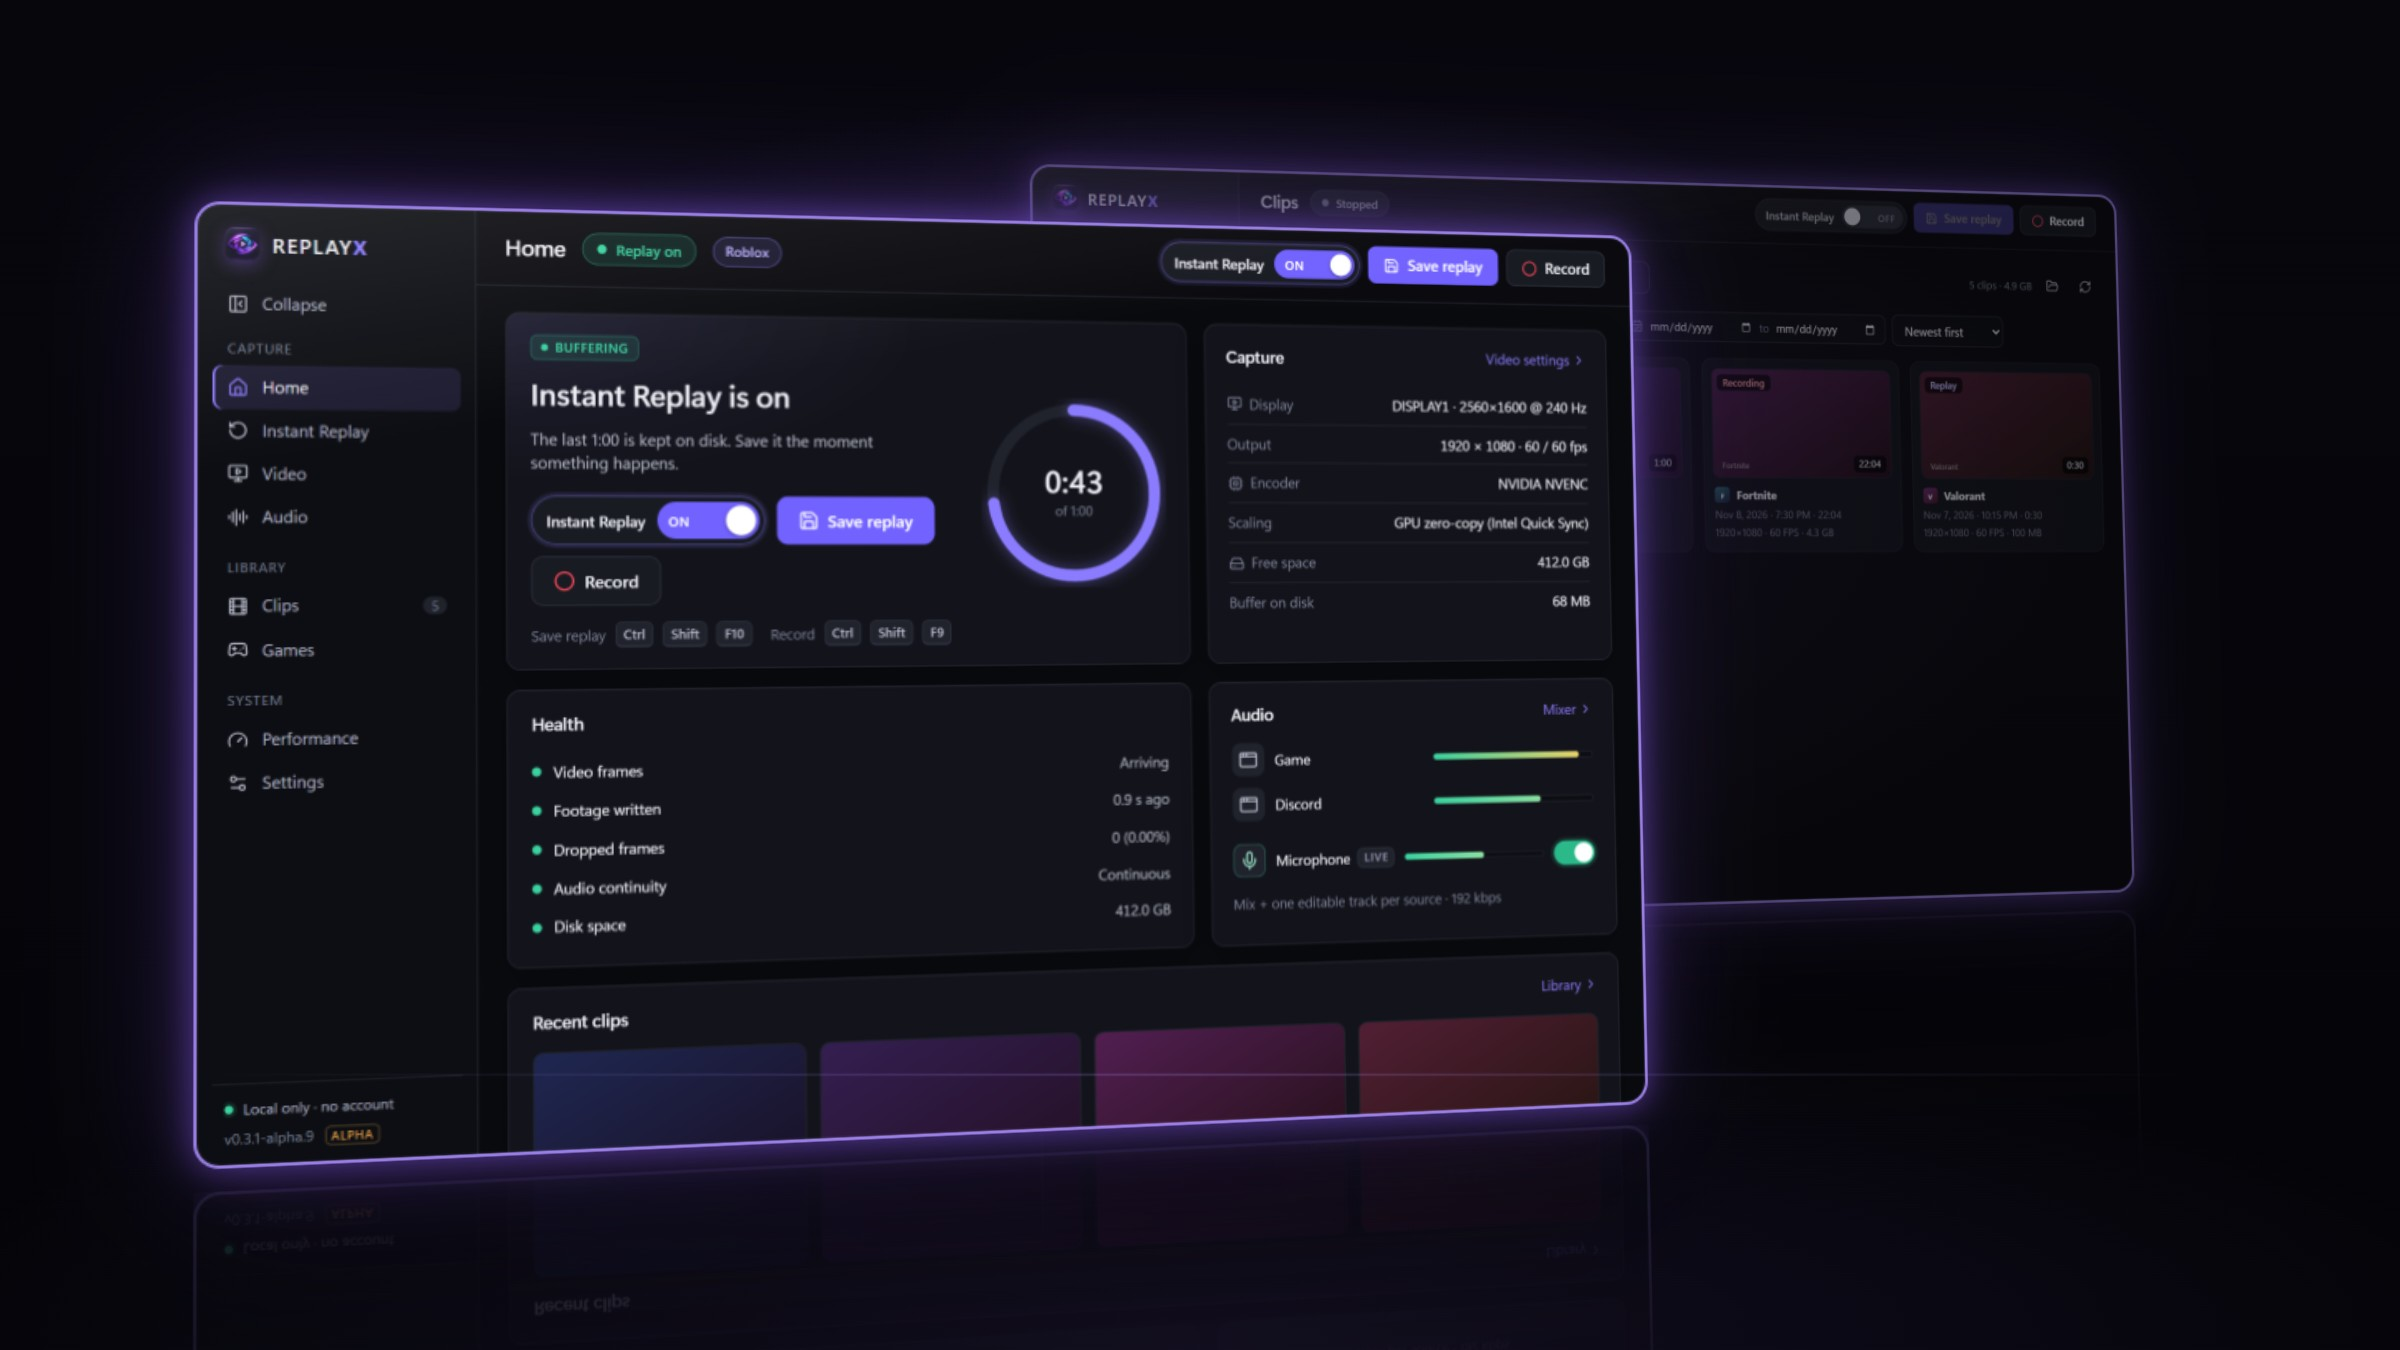
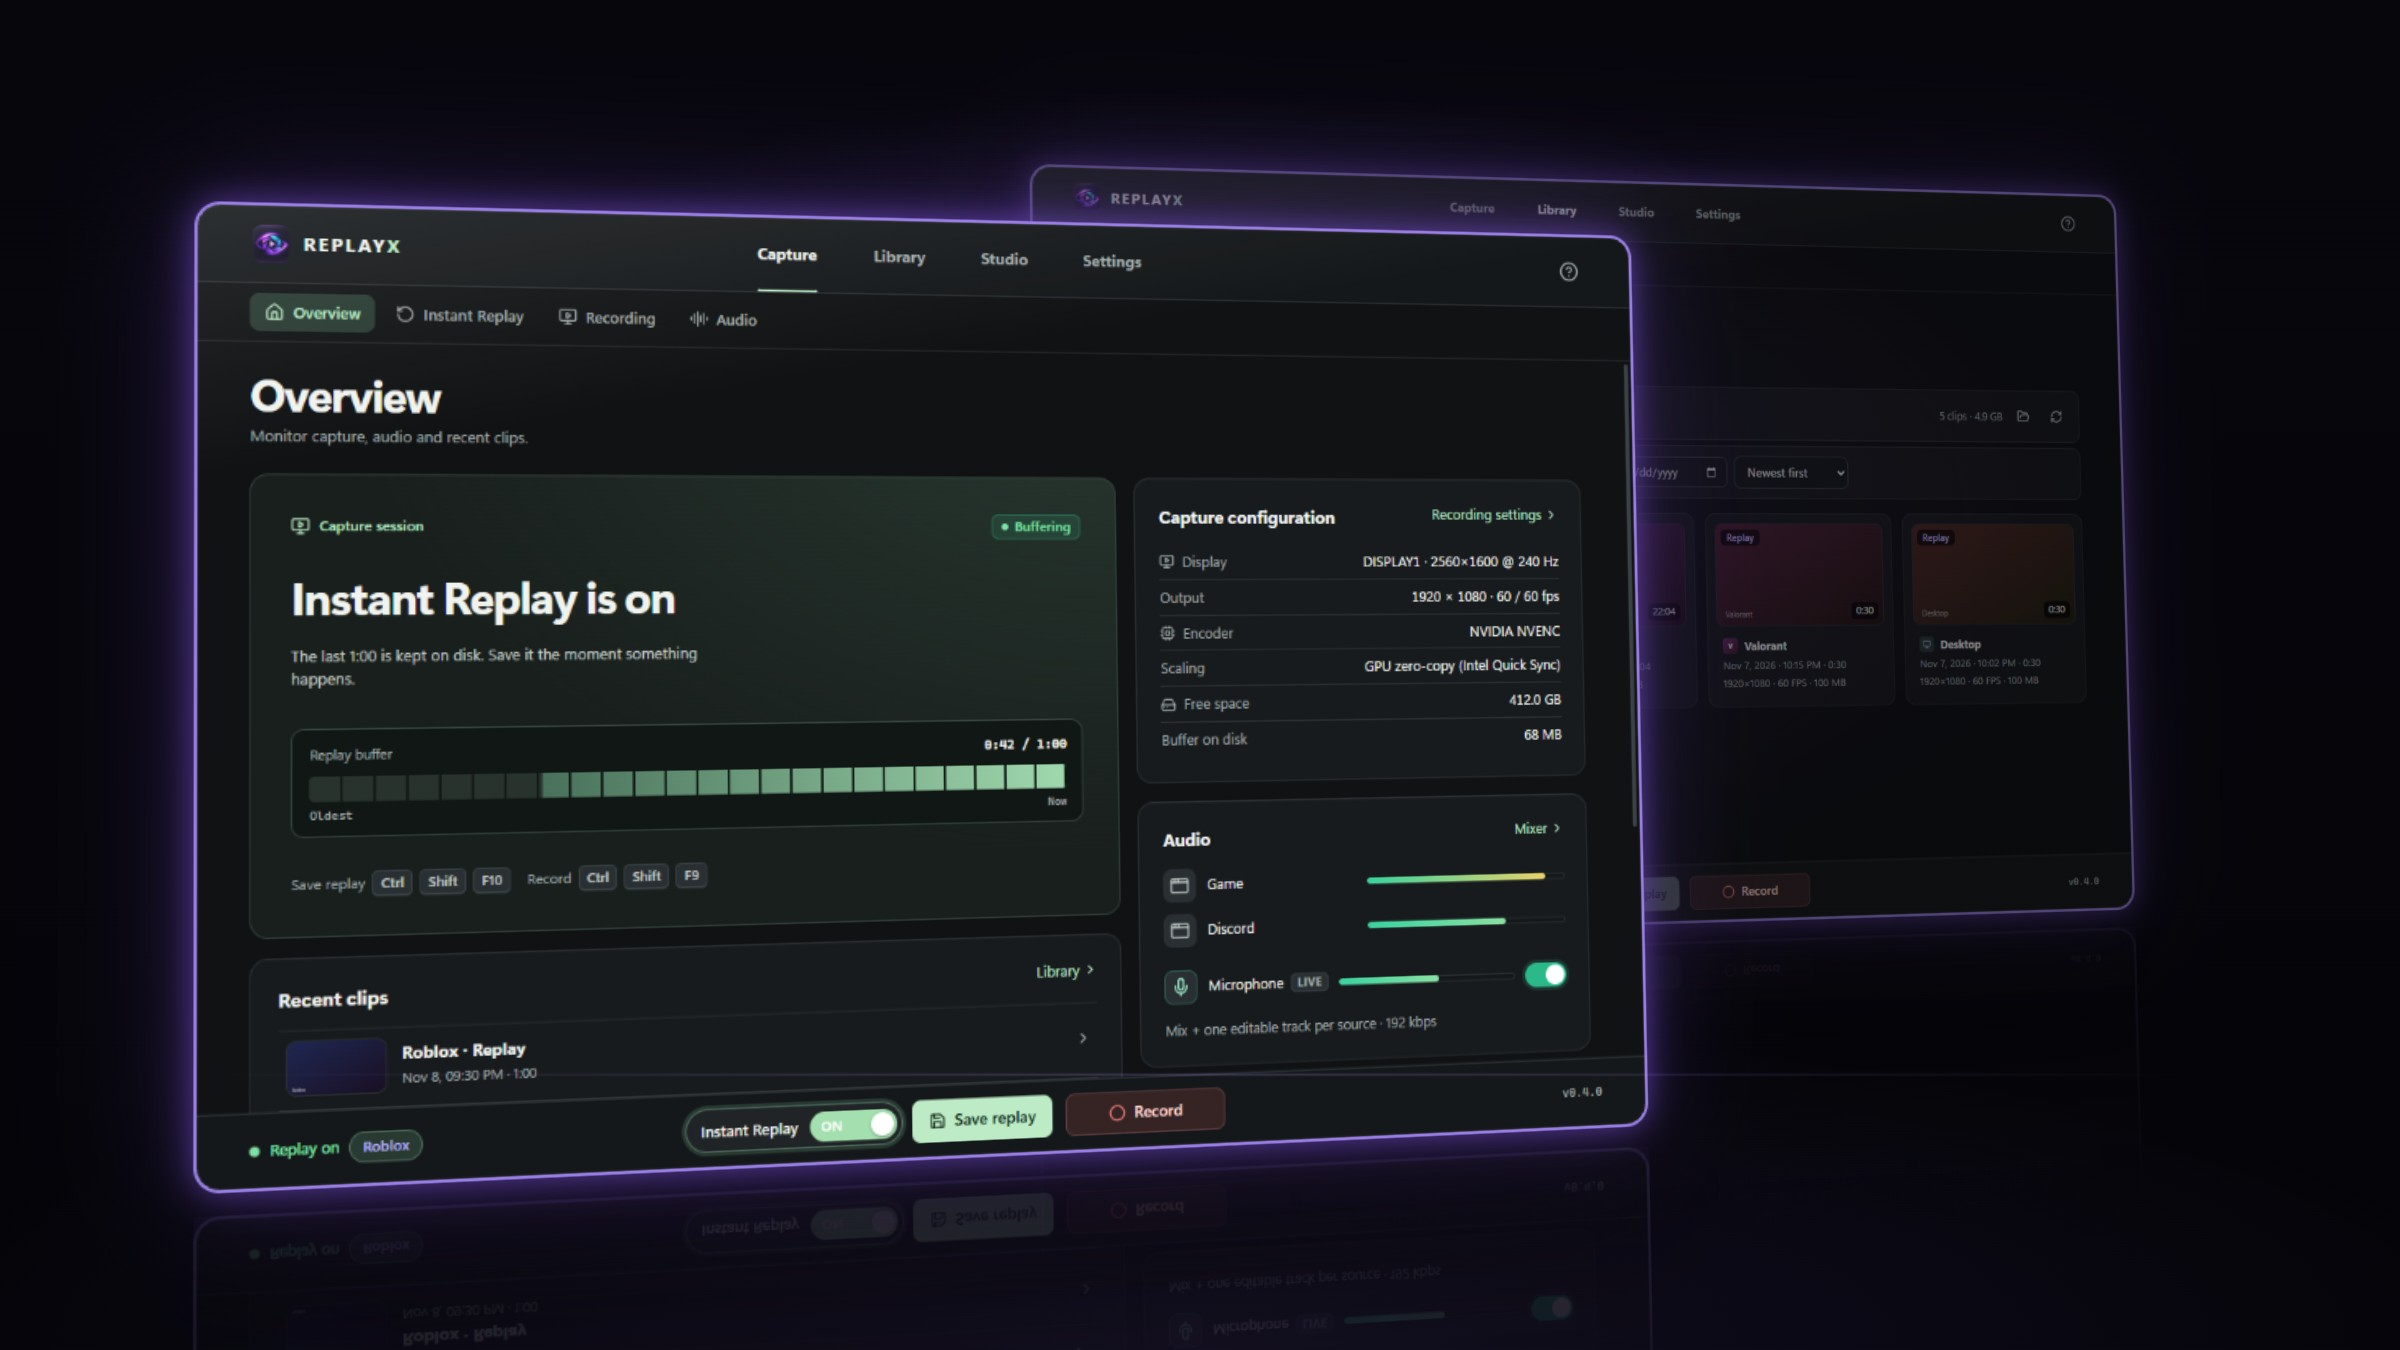
Show the released 0.4.0 interface in the README

diff --git a/README.md b/README.md
@@ -22,9 +22,9 @@
 </p>
 
 <p align="center">
-  <img src="docs/images/showcase-home.jpg" alt="REPLAYX home screen with Instant Replay on, in front of the Clips library" width="100%">
+  <img src="docs/images/showcase-home.jpg" alt="REPLAYX 0.4.0 Capture overview with Instant Replay on, in front of the Clips library" width="100%">
   <br>
-  <sub>The earlier Alpha.9 interface with sample data.</sub>
+  <sub>REPLAYX 0.4.0, shown with sample data.</sub>
 </p>
 
 ## New in 0.4.0
